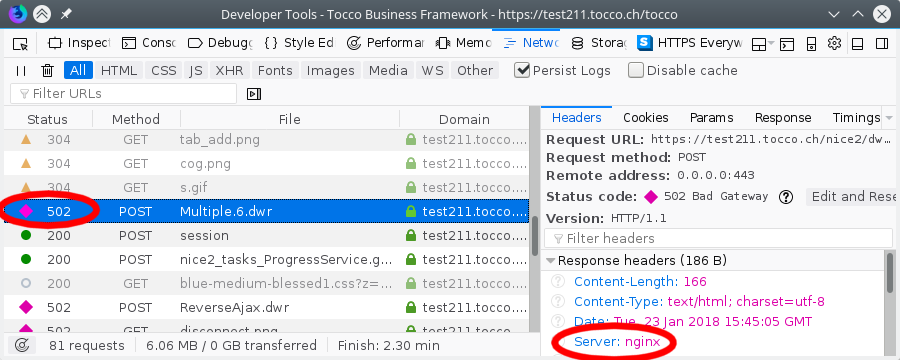
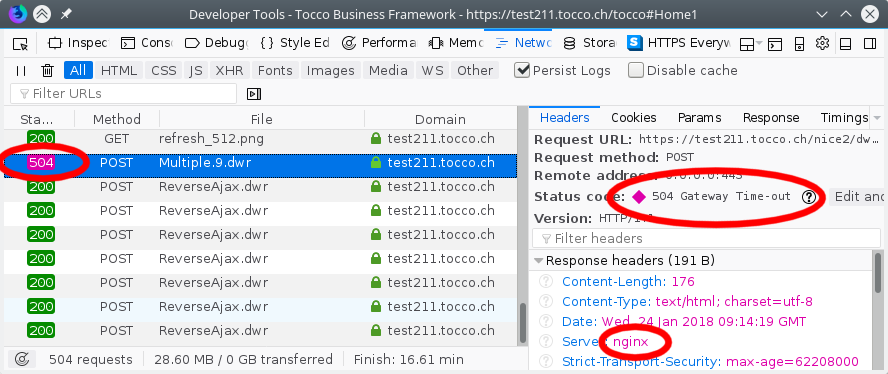
consistently use error code 504

Changed region(s): [[0.0, 0.0306, 1.0, 1.0], [0.973, 0.7639, 1.0, 0.825], [0.3953, 0.275, 0.4257, 0.3056]]

diff --git a/knowledge_base/errors/web_server.rst b/knowledge_base/errors/web_server.rst
@@ -1,13 +1,13 @@
 Web Server
 ==========
 
-502 - Bad Gateway
------------------
+504 - Gateway Timeout
+---------------------
 
 Error
 ^^^^^
 
-HTTP requests fail with status code 504.
+HTTP requests fails with status code 504.
 
 .. figure:: ../img/504_timeout.png
 
